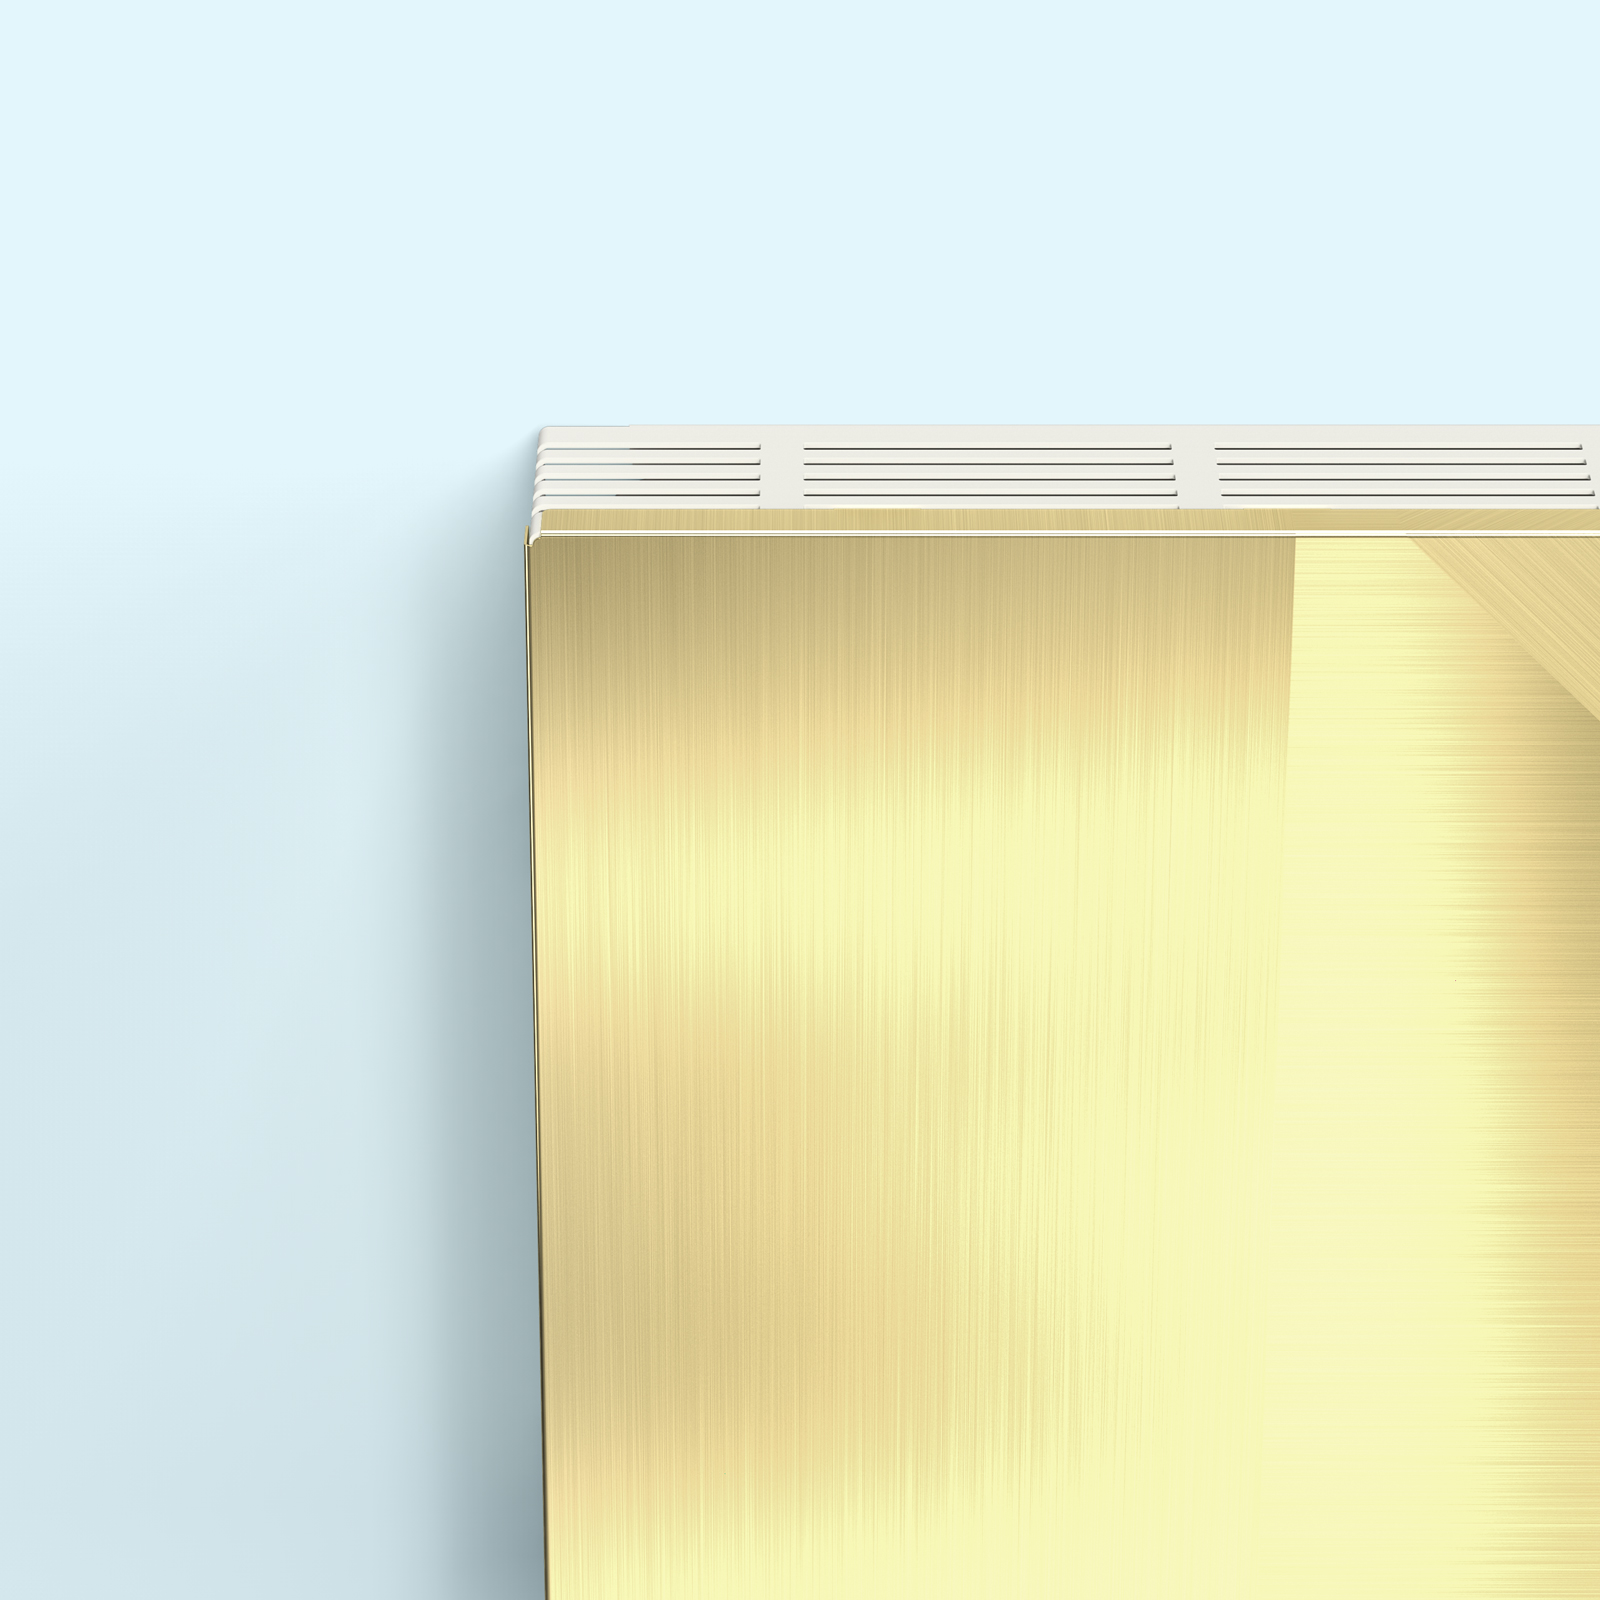
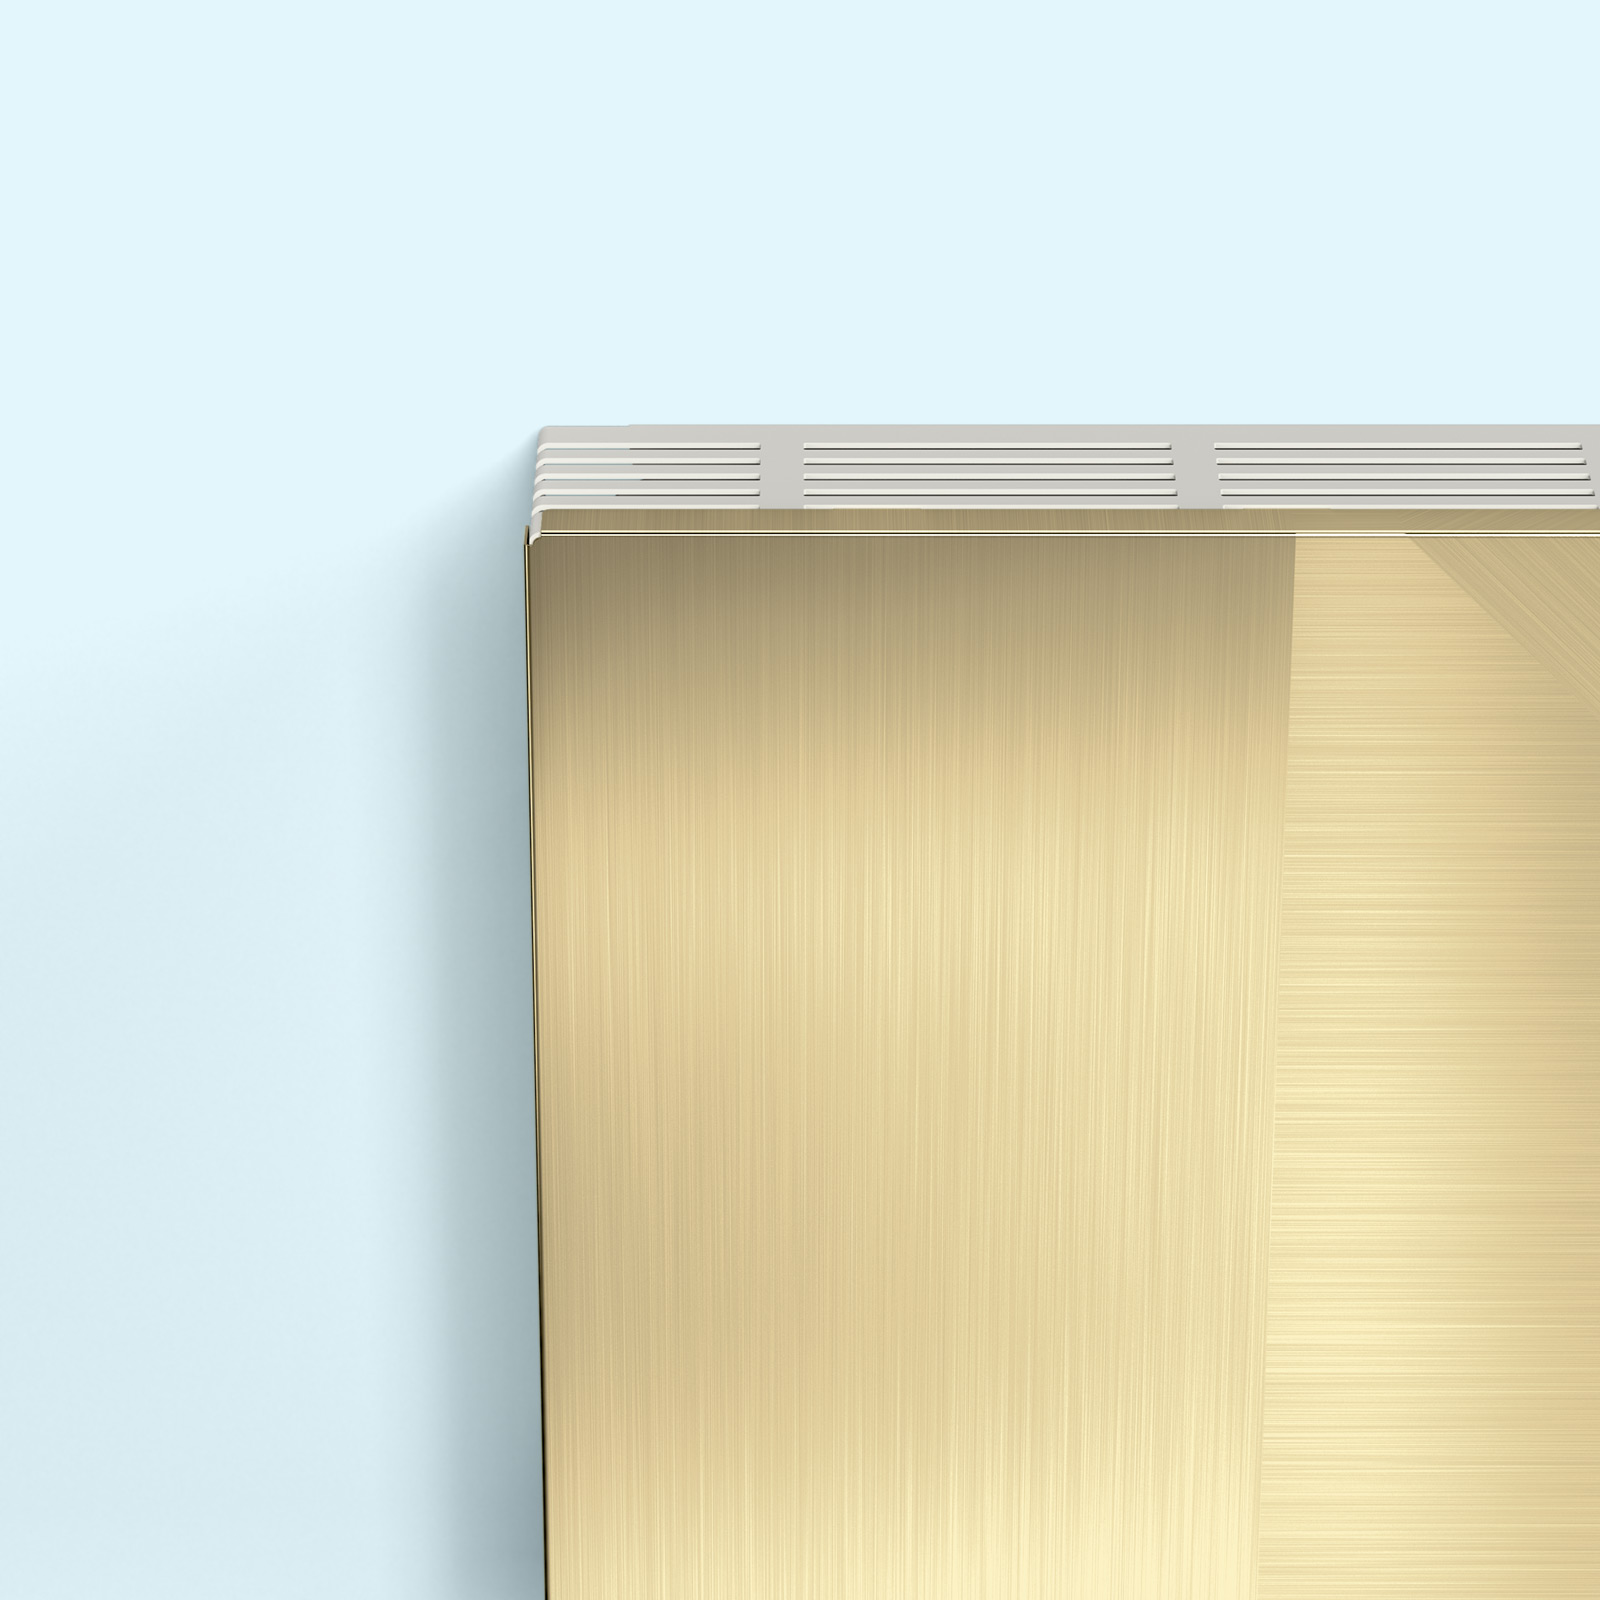
.

Changed region(s): [[0.3125, 0.25, 1.0, 1.0], [0.7812, 0.9688, 0.8125, 1.0]]

diff --git a/index.html b/index.html
@@ -1,6 +1,6 @@
 ---
-title: Медные дизайн-радиаторы отопления - COPPERI
-description: Медные дизайн-радиаторы отопления от производителя. Каталог, цены, размеры медных радиаторов COPPERI
+title: Медные дизайн-радиаторы отопления - copperi
+description: Медные дизайн-радиаторы отопления от производителя. Каталог, цены, размеры медных радиаторов copperi
 layout: index-page
 permalink: /
 
@@ -15,49 +15,47 @@ permalink: /
 		<div class="row uniform 50%">
 			<div class="4u 6u(medium) 12u(xsmall)">
 				<a class="feature" href="/catalog/plain-h">
-					<img src="/images/pic1.jpg" />
+					<img src="/images/medniy-radiator-otoplenia-copperi-plain.jpg" alt="Медный радиатор отопления copperi Plain"/>
 					<span class="top">Plain</span>
 				</a>
 			</div>
 			<div class="4u 6u(medium) 12u(xsmall)">
 				<a class="feature" href="/catalog/anisotropia-v">
-					<img src="/images/pic2.jpg" />
+					<img src="/images/verticalniy-dizayn-radiator-copperi-anisotropia-v.jpg" alt="Вертикальный дизайн-радиатор copperi Anisotropia V"/>
 					<span class="left">Anisotropia V</span>
 				</a>
 			</div>
 			<div class="4u 6u(medium) 12u(xsmall)">
 				<a class="feature" href="/catalog/62-38-br">
-					<img src="/images/pic3.jpg" />
-					<span class="bottom">62/38 Br</span>
+					<img src="/images/dizaynerskiy-radiator-otoplenia-copperi-62-38-br.jpg" alt="Дизайнерский радиатор отопления copperi 62/38 br"/>
+					<span class="bottom">62/38 br</span>
 				</a>
 			</div>
 			<div class="8u 6u(medium) 12u(xsmall)">
 				<a class="feature" href="/catalog/anisotropia-cu">
-					<img src="/images/pic4.jpg" />
-					<!-- <span class="bottom">Anisotropy Cu</span> -->
+					<img src="/images/dizaynerskiy-radiator-otoplenia-copperi-anisotropia-cu.jpg" alt="Дизайнерский радиатор отопления copperi Anisotropia cu"/>
 				</a>
 			</div>
 			<div class="4u 6u(medium) 12u(xsmall)">
 				<a class="feature" href="/catalog/frame-v">
-					<img src="/images/pic5.jpg" />
+					<img src="/images/verticalniy-dizaynerskiy-radiator-frame-v.jpg" alt="Вертикальный дизайнерский радиатор copperi Frame V"/>
 					<span class="left">Frame V</span>
 				</a>
 			</div>
 			<div class="4u 6u(medium) 12u(xsmall)">
 				<a class="feature" href="/catalog/black-matter">
-					<img src="/images/pic6.jpg" />
+					<img src="/images/medniy-dizaynerskiy-radiator-copperi-black-matter.jpg" alt="Медный дизайнерский радиатор copperi Black Matter"/>
 					<span class="top">Black Matter</span>
 				</a>
 			</div>
 			<div class="6u 6u(medium) 12u(xsmall)">
 				<a class="feature" href="/catalog/ocean">
-					<img src="/images/pic7.jpg" />
-					<!-- <span class="bottom">Ocean</span> -->
+					<img src="/images/medniy-dizaynerskiy-radiator-copperi-ocean.jpg" alt="Медный дизайнерский радиатор copperi Ocean"/>
 				</a>
 			</div>
 			<div class="6u 6u(medium) 12u(xsmall)">
 				<a class="feature" href="/catalog/random-v">
-					<img src="/images/pic8.jpg" />
+					<img src="/images/verticalniy-dizaynerskiy-radiator-random-v.jpg" alt="Вертикальный дизайнерский радиатор copperi Random V"/>
 					<span class="left">Random V</span>
 				</a>
 			</div>

diff --git a/assets/css/main.css b/assets/css/main.css
@@ -213,8 +213,8 @@
 		-webkit-appearance: none;
 		-ms-appearance: none;
 		appearance: none;
-		background: rgba(144, 144, 144, 0.075);
-		border-radius: 4px;
+		background: rgba(144, 144, 144, 0.025);
+		border-radius: 0;
 		border: none;
 		border: solid 1px rgba(144, 144, 144, 0.25);
 		color: inherit;
@@ -365,27 +365,27 @@
 	}
 
 	::-webkit-input-placeholder {
-		color: #bbb !important;
+		color: #888 !important;
 		opacity: 1.0;
 	}
 
 	:-moz-placeholder {
-		color: #bbb !important;
+		color: #888 !important;
 		opacity: 1.0;
 	}
 
 	::-moz-placeholder {
-		color: #bbb !important;
+		color: #888 !important;
 		opacity: 1.0;
 	}
 
 	:-ms-input-placeholder {
-		color: #bbb !important;
+		color: #888 !important;
 		opacity: 1.0;
 	}
 
 	.formerize-placeholder {
-		color: #bbb !important;
+		color: #888 !important;
 		opacity: 1.0;
 	}
 

diff --git a/tech-info.html b/tech-info.html
@@ -1,5 +1,5 @@
 ---
-title: Медные радиаторы отопления. Техническая информация - COPPERI
+title: Медные радиаторы отопления. Техническая информация - copperi
 description: Медные радиаторы (батареи) отопления. Характеристики и размеры. Техническая информация.Варианты подключения.
 layout: generic
 permalink: /tech-info

diff --git a/contact.html b/contact.html
@@ -1,6 +1,6 @@
 ---
-title: Контакты - COPPERI
-description: Где купить медные радиаторы отопления COPPERI? Контакты и схема проезда.
+title: Контакты - copperi
+description: Где купить медные радиаторы отопления copperi? Контакты и схема проезда.
 layout: generic
 permalink: /contact
 

diff --git a/all-catalog.html b/all-catalog.html
@@ -1,6 +1,6 @@
 ---
-title: Sometitle
-description: Some description
+title: Каталог дизайн-радиаторов отопления - copperi
+description: Каталог дизайнерских радиаторов отопления от производителя. Цены и размеры медных радиаторов copperi
 
 permalink: /catalog/
 layout: generic

diff --git a/how-to-buy.html b/how-to-buy.html
@@ -1,5 +1,5 @@
 ---
-title: Как купить медные радиаторы отопления - COPPERI
+title: Как купить медные радиаторы отопления - copperi
 description: Как и где купить медные радиаторы отопления. Цены, размеры, сроки поставки.
 layout: generic
 permalink: /how-to-buy

diff --git a/_layouts/product.html b/_layouts/product.html
@@ -51,7 +51,7 @@
 									  "offers": {
 										"@type": "Offer",
 										"priceCurrency": "RUB",
-										"price": "{{site.data[page.product-type][0].price | remove: ","}}",
+										"price": "{{site.data.price[1][model_name]}}",
 										"priceValidUntil": "2020-11-05",
 										"availability": "http://schema.org/InStock",
 										"seller": {

diff --git a/_catalog/510/anisotropia-v.md b/_catalog/510/anisotropia-v.md
@@ -1,26 +1,26 @@
 ---
-title: Медный дизайн радитор copperi Anisotropia V. Цены и размеры.
-description: Купить медный дизайн радиатор copperi Anisotropia V в Москве.
+title: Вертикальный дизайнерский радитор copperi Anisotropia V. Цены и размеры.
+description: Купить вертикальный дизайнерский радитор copperi Anisotropia V в Москве по цене производителя.
 layout: product
 permalink: /catalog/:name
 
 header-color: "#dfe2e5"
 
 model-title: "Anisotropia V"
-model-desc: "Черная патина на блестящей меди как темная материя между сияющими галактиками. Радиатор покрыт матовым или глянцевым лаком, чтобы сохранить рисунок неизменным."
+model-desc: "Направленная шлифовка разбивает отражения по-разному вдоль и поперёк линий. Можно выбрать наш рисунок или предложить свой."
 
 weight: 30
 product: 1
 vertical: 1
 
 features:
-- "Материал: медь"
-- "Цвет: шлифованная медь"
-- "Матовый или глянцевый лак"
-- "Ручная работа - каждый радиатор уникален"
+- "Материал: сталь"
+- "Цвет: шлифованная сталь"
+- "Матовый лак"
+- "Подключение: боковое или нижнее"
 
 related:
-- black-matter
-- antiq
-- ocean
+- anisotropia-cu
+- anisotropia-br
+- random-v
 ---

diff --git a/_catalog/510/anisotropia-br.md b/_catalog/510/anisotropia-br.md
@@ -1,25 +1,25 @@
 ---
-title: Медный дизайн радитор copperi Anisotropia Br. Цены и размеры.
-description: Купить медный дизайн радиатор copperi Anisotropia Br в Москве.
+title: Дизайнерский радитор отопления copperi Anisotropia Br. Цены и размеры.
+description: Купить дизайнерский радитор отопления copperi Anisotropia Br в Москве по цене производителя.
 layout: product
 permalink: /catalog/:name
 
 header-color: "#e3f6fc"
 
 model-title: "Anisotropia Br"
-model-desc: "Черная патина на блестящей меди как темная материя между сияющими галактиками. Радиатор покрыт матовым или глянцевым лаком, чтобы сохранить рисунок неизменным."
+model-desc: "Направленная шлифовка разбивает отражения по-разному вдоль и поперёк линий. Можно выбрать наш рисунок или предложить свой."
 
 weight: 50
 product: 1
 
 features:
-- "Материал: медь"
-- "Цвет: шлифованная медь"
-- "Матовый или глянцевый лак"
-- "Ручная работа - каждый радиатор уникален"
+- "Материал: латунь"
+- "Цвет: шлифованная латунь"
+- "Матовый лак"
+- "Подключение: боковое или нижнее"
 
 related:
-- black-matter
-- antiq
-- ocean
+- anisotropia-cu
+- 62-38-br
+- anisotropia-v
 ---

diff --git a/_catalog/510/62-38-br.md b/_catalog/510/62-38-br.md
@@ -1,13 +1,13 @@
 ---
-title: Медный дизайн радитор copperi 62/38 Br. Цены и размеры.
-description: Купить медный дизайн радиатор copperi 62/38 Br в Москве.
+title: Дизайнерский радитор copperi 62/38 Br. Цены и размеры.
+description: Купить дизайнерский радитор copperi 62/38 Br в Москве по цене производителя.
 layout: product
 permalink: /catalog/:name
 
 header-color: "#e3f6fc"
 
 model-title: "62/38 Br"
-model-desc: "Черная патина на блестящей меди как темная материя между сияющими галактиками. Радиатор покрыт матовым или глянцевым лаком, чтобы сохранить рисунок неизменным."
+model-desc: "Сочетания и пропорции. Латунная часть может быть шлифованной или полированной, с матовым или глянцевым покрытием. Стальная - окрашена в любой цвет по каталогу RAL."
 
 weight: 20
 product: 1

diff --git a/_catalog/510/anisotropia-cu.md b/_catalog/510/anisotropia-cu.md
@@ -1,13 +1,13 @@
 ---
-title: Медный дизайн радитор copperi Anisotropia Cu. Цены и размеры.
-description: Купить медный дизайн радиатор copperi Anisotropia Cu в Москве.
+title: Дизайнерский радитор отопления copperi Anisotropia Cu. Цены и размеры.
+description: Купить дизайнерский радитор отопления copperi Anisotropia Cu в Москве по цене производителя.
 layout: product
 permalink: /catalog/:name
 
-header-color: "#e3fcf9"
+header-color: "#e3f6fc"
 
 model-title: "Anisotropia Cu"
-model-desc: "Направленная шлифовка разбивает отражения"
+model-desc: "Направленная шлифовка разбивает отражения по-разному вдоль и поперёк линий. Можно выбрать наш рисунок или предложить свой."
 
 weight: 10
 product: 1

diff --git a/_catalog/510/62-38-cu.md b/_catalog/510/62-38-cu.md
@@ -1,13 +1,13 @@
 ---
-title: Медный дизайн радитор copperi 62/38 Cu. Цены и размеры.
-description: Купить медный дизайн радиатор copperi 62/38 Cu в Москве.
+title: Дизайнерский радитор отопления copperi 62/38 Cu. Цены и размеры.
+description: Купить дизайнерский радитор отопления copperi 62/38 Cu в Москве по цене производителя.
 layout: product
 permalink: /catalog/:name
 
 header-color: "#e3f6fc"
 
 model-title: "62/38 Cu"
-model-desc: ""
+model-desc: "Сочетания и пропорции. Медная часть может быть шлифованной или полированной, с матовым или глянцевым покрытием. Стальная - окрашена в любой цвет по каталогу RAL."
 
 weight: 40
 product: 1
